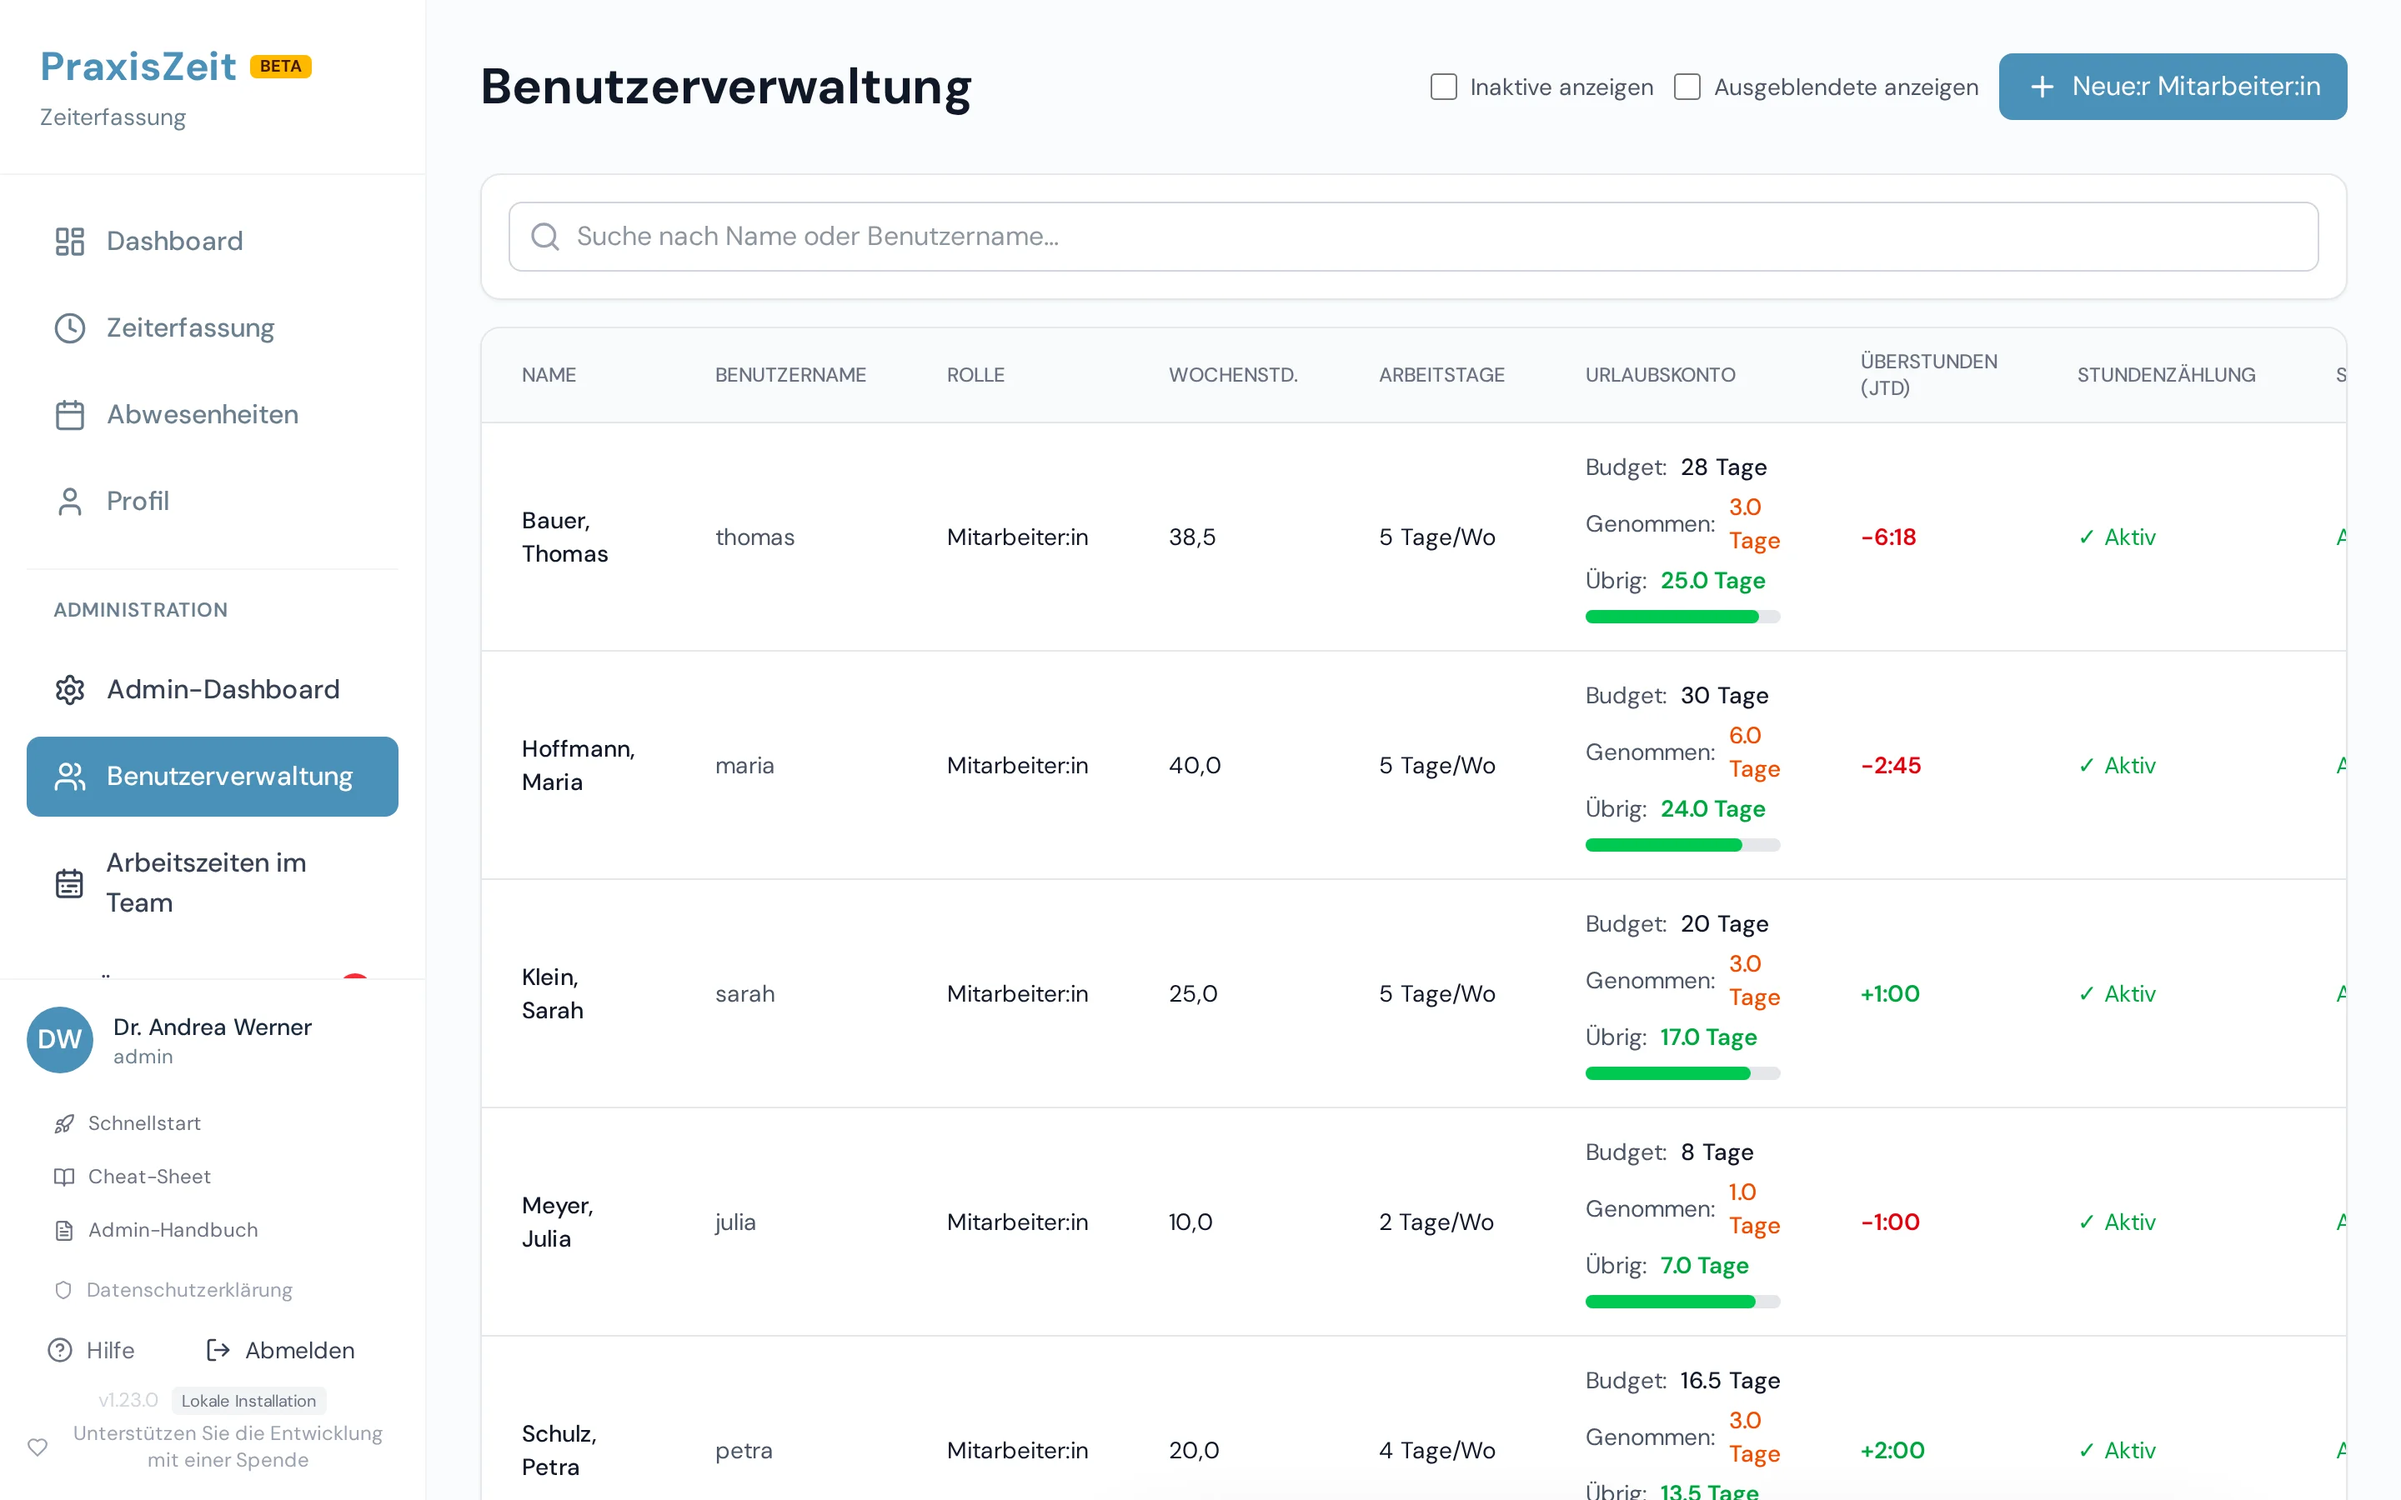
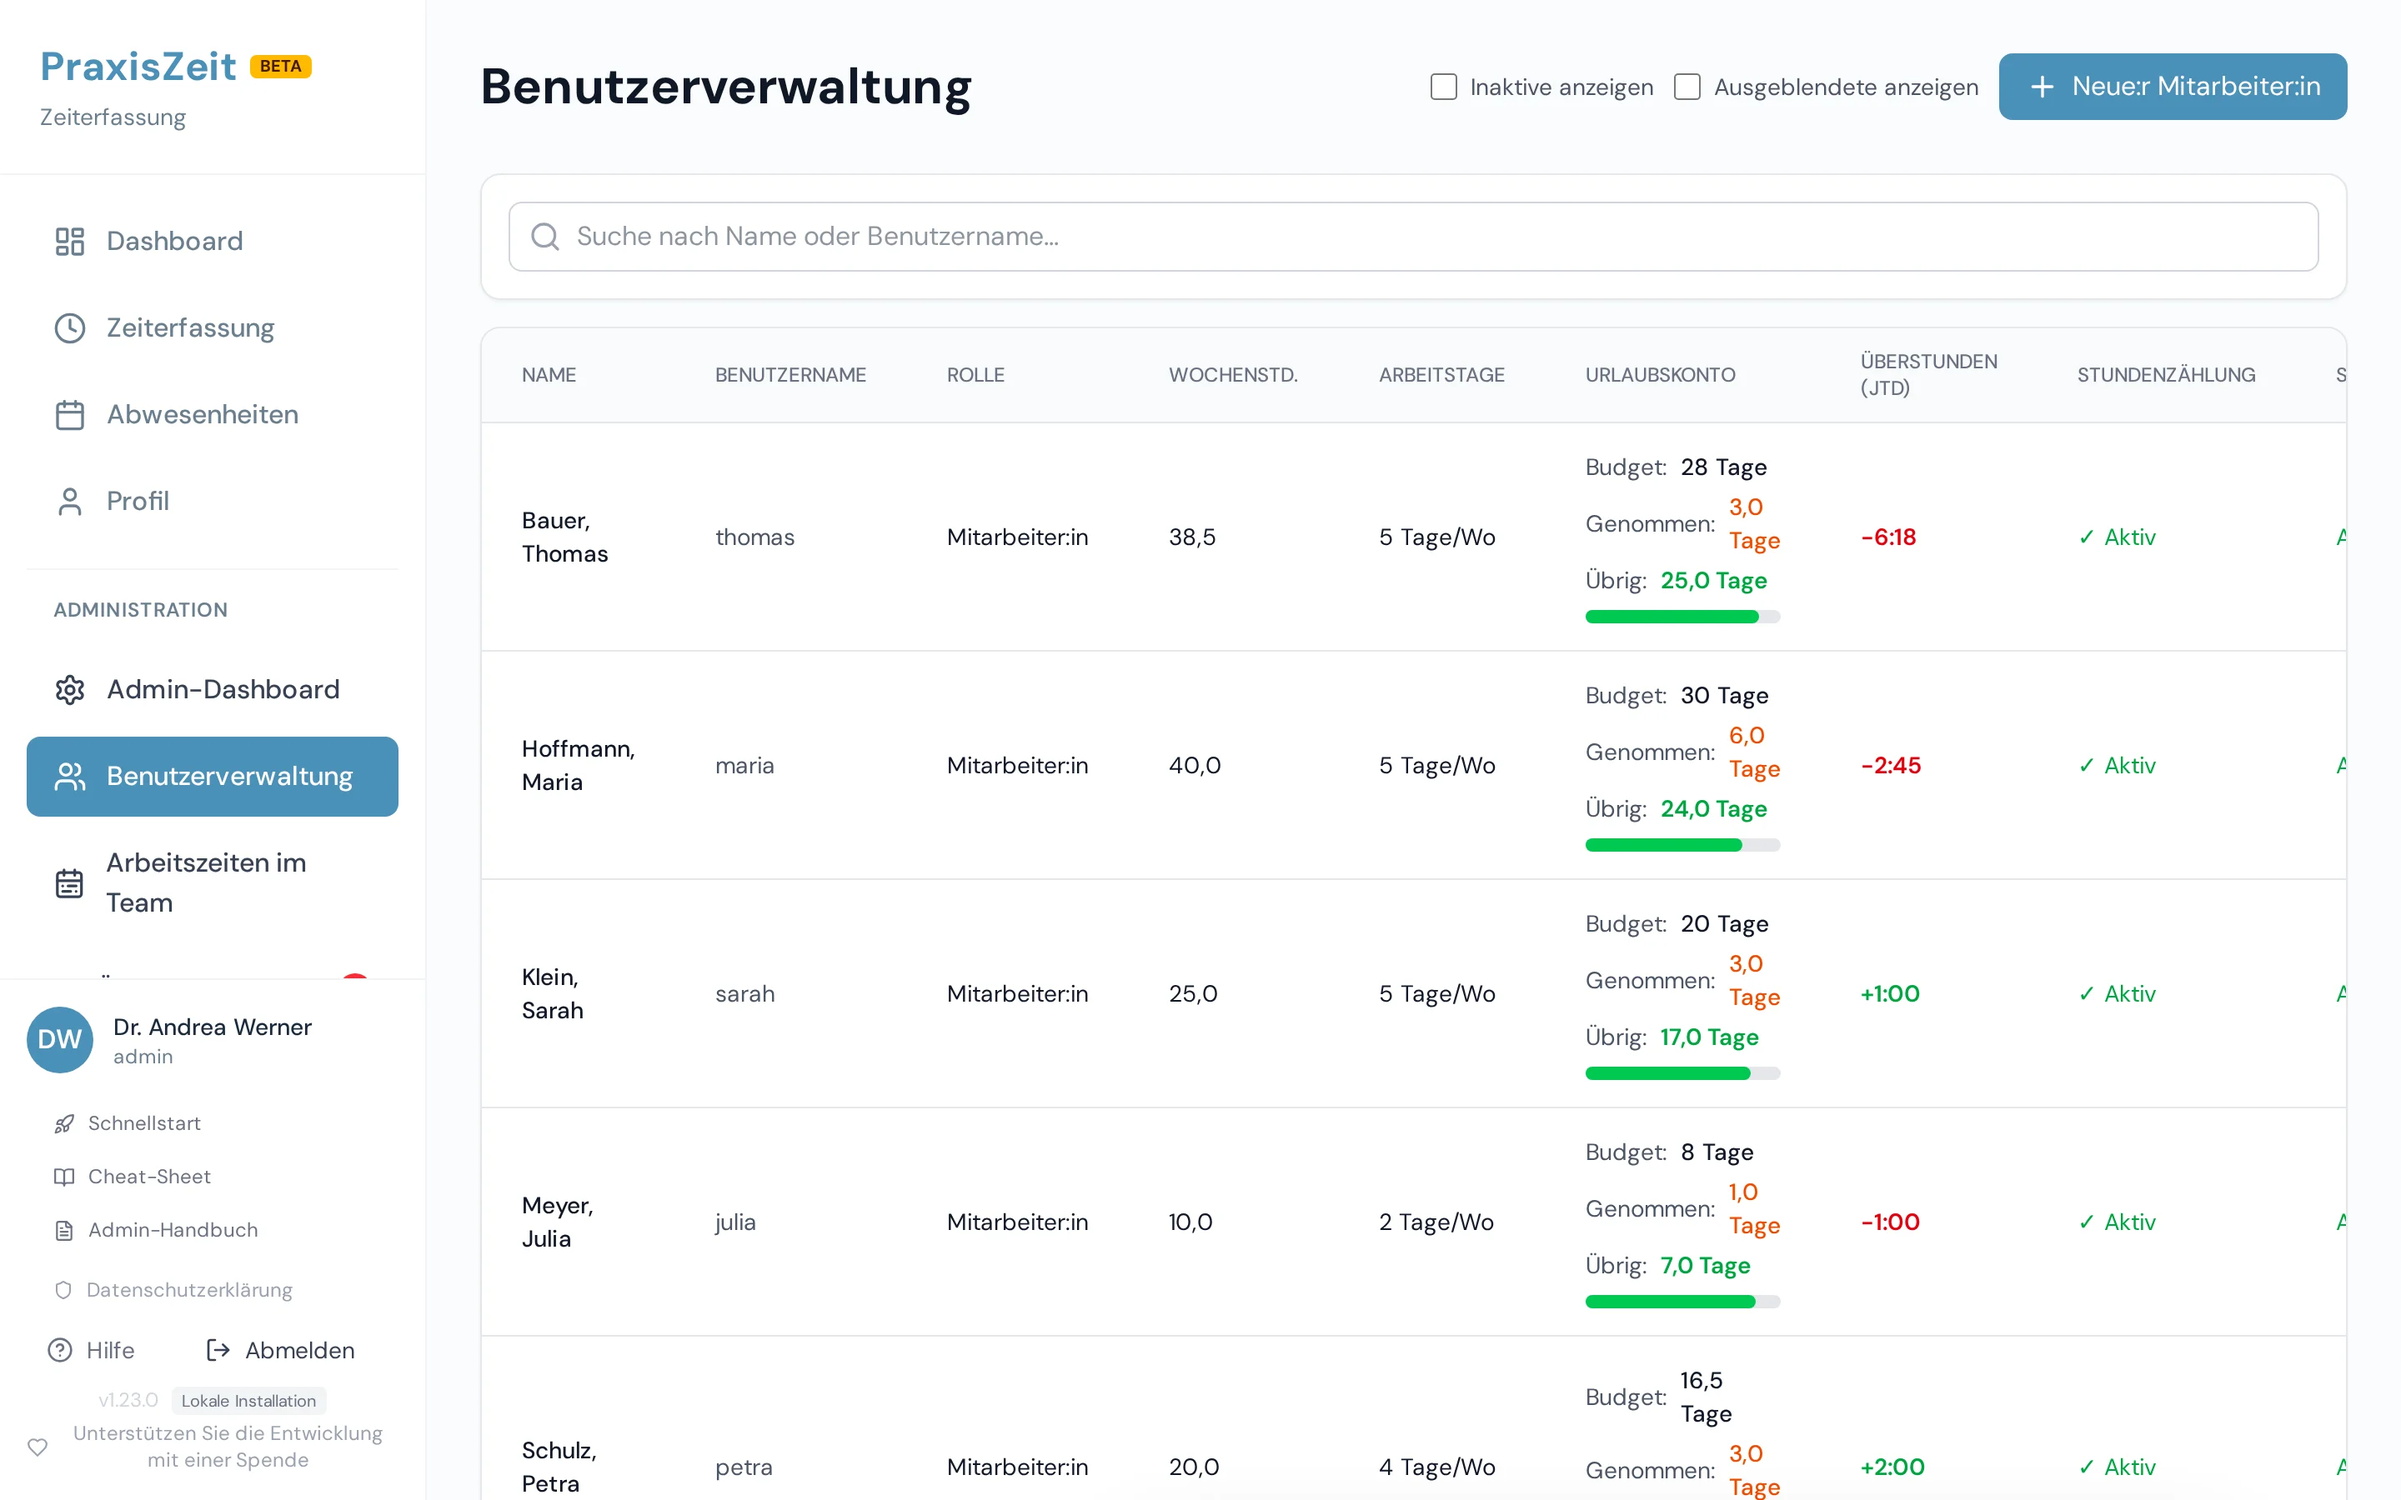
docs(handbuch): P4 Neuaufnahme betroffener Shots, Resturlaub-Frist, CHANGELOG
Neu aufgenommen: Abwesenheitsgruende, Kind-krank/Mindestlohn, Benutzerliste,
Jahresuebersicht, Import-Vorschau/-Bestaetigung, Benutzer bearbeiten,
Admin-Dashboard (Rahmen, Einzahl, Dezimalkomma, neues Feld).

diff --git a/frontend/src/handbuch/content/praxisleitung.ts b/frontend/src/handbuch/content/praxisleitung.ts
@@ -1149,6 +1149,7 @@ export const praxisleitung: Handbook = {
             { text: '**Wochenstunden** und Arbeitstage stehen nur als Anzeige da – immer die heute gültigen Werte.' },
             { n: 1, text: '[[Arbeitszeit anpassen…]] öffnet den Dialog „Arbeitszeit & Wochenstunden“; dort ändern Sie mit Wirkungsdatum.' },
             { n: 2, text: '**Urlaub und Abrechnung:** Urlaubsanspruch, Stundenzählung und Minijob-Einstellungen, ebenfalls nur Anzeige („Ändern über „Arbeitszeit anpassen…““).' },
+            { text: '**Resturlaub verfällt am:** eine eigene Verfallsfrist für diese Person; leer gilt der 31.03. des Folgejahres. Das Datum steht im Urlaubskonto der Person und in der Jahresend-Warnung der Verwaltung.' },
           ],
         },
         {

diff --git a/CHANGELOG.md b/CHANGELOG.md
@@ -2,6 +2,10 @@
 
 ## [Unreleased]
 
+### ✨ Neu
+
+- **Verfallsdatum des Resturlaubs je Person im Benutzerformular.** Beim Bearbeiten gibt es das Feld „Resturlaub verfällt am“ (leer = 31.03. des Folgejahres); das Dashboard der Person und die Jahresend-Warnung der Verwaltung nutzen es bereits.
+
 ### 🐛 Behoben (Funde beim Schreiben der Handbücher)
 
 **Enthält die Datenbank-Migration `077_legacy_half_day`.** Vor dem Update wie immer eine Sicherung anlegen.
@@ -13,6 +17,9 @@
 - **Admin-Dashboard nennt den Monat deutsch** („Oktober 2026“ statt „October 2026“) in der Kachel „Monat“ und im Detail-Dialog.
 - **Barrierefreiheit:** Der Plus-Knopf „Neuer Eintrag“ der Zeiterfassung hat auch am Handy einen Namen; der Schalter „Abwesenheitsanträge genehmigungspflichtig“ trägt seine Überschrift als Namen.
 - **Formular „Neue:r Benutzer:in“:** Platzhalter der E-Mail `name@praxis.example` statt einer echten fremden Domain.
+- **Eigene Abwesenheitsgründe: Eingabefelder mit sichtbarem Rahmen.** „Bezeichnung“ und „Verhalten“ in den Einstellungen (und die Vorschau-Auswahl der Schichtplanung) hatten keinen erkennbaren Rahmen.
+- **Einzahl beim XLS-Import:** „1 Eintrag gefunden“, „1 Konflikt“, „1 Hinweis“, „(1 Eintrag)“ statt „1 Einträge“ usw.
+- **Dezimalkomma statt Punkt in Anzeigen:** gesetzlicher Mindestlohn („13,90 €/h“), Kind-krank-Anzeige („2,0/15“), Urlaubstage in Benutzerliste und Jahresübersicht („3,0 Tage“), Übertrags-Dialog, Datensicherungen, Rechnungen. Gespeichert wird weiterhin unverändert.
 
 ## [1.23.0] - 2026-11-07
 
